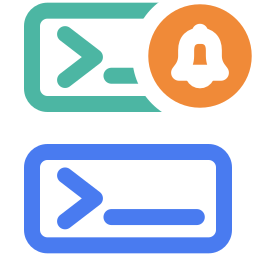
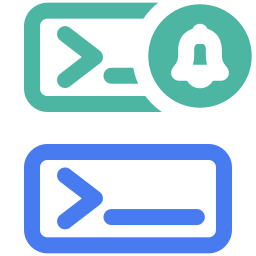
chore(release): 准备 0.5.0 发布收口
1. 统一主扩展与 notifier companion 的 0.5.0 版本号、CHANGELOG、Marketplace 文案与安装升级说明。\n2. 补齐 notifier 独立 VSIX 的打包脚本、发布手册与公开 Preview 发布复核材料。\n3. 这条分支当前建立在 notifier feature 之上，后续应在 feature 合入 main 后再 rebase 到最新 main 继续走 publish MR。

Changed region(s): [[0.5625, 0.0, 1.0, 0.4375], [0.75, 0.1562, 0.8125, 0.2812]]

diff --git a/docs/design-docs/public-marketplace-release-readiness.md b/docs/design-docs/public-marketplace-release-readiness.md
@@ -11,7 +11,7 @@ architecture_layers:
 related_specs: []
 related_plans:
   - docs/exec-plans/completed/public-marketplace-release-readiness-research.md
-updated_at: 2026-05-03
+updated_at: 2026-05-04
 ---
 
 # 公开平台发布准备
@@ -62,17 +62,19 @@ updated_at: 2026-05-03
 
 ## 6. 当前现状
 
-截至 2026-05-03（以 PR35 当前最新 head 对应的工作树快照为准），仓库里已经成立的事实如下：
+截至 2026-05-04（以 PR35 当前最新 head 对应的工作树快照为准），仓库里已经成立的事实如下：
 
 - `package.json` 具备基础扩展元数据，且仍标记为 `preview: true`。
+- 主扩展与 notifier companion 都已声明双向 `extensionDependencies`，用户从任一 Marketplace 页面安装时都会自动补齐另一侧。
 - `README.md` 已明确写成“产品已处于公开 Preview 阶段”；发布执行与对外口径已收口到 `docs/public-preview-release-playbook.md`。
+- notifier companion 的独立发布手册已收口到 `docs/notifier-preview-release-playbook.md`。
 - 许可证已选定为 `Apache-2.0`。
 - `repository`、`homepage` 和 `bugs` 已切换到公开 GitHub 地址。
 - 发布工具链已迁移到 `@vscode/vsce`，`scripts/package-vsix.mjs` 也已兼容 `.bin/vsce` 与包内 CLI 脚本两条本地入口。
 - `scripts/package-vsix.mjs` 当前会在打包阶段显式传入 `--readme-path README.marketplace.md`，确保后续 `publish --packagePath` 上传的现成 VSIX 已内嵌 Marketplace 专用 README，而不是依赖发布时重新替换。
 - `scripts/package-vsix.mjs` 默认会把 Marketplace README 的相对资源改写到当前 `HEAD` 对应的最终 git ref；若在不含 `.git` 元数据的 clean checkout 或导出目录中打包，则必须显式传入 `DEV_SESSION_CANVAS_VSCE_DOC_BRANCH=<final-ref>`，并在打包前校验这些相对资源能在该 ref 上解析成功。
-- 当前工作树已能稳定执行 `npm run package:vsix`，生成 `dev-session-canvas-0.4.1.vsix`（约 `2.17 MB`、`48 files`），并再次通过 `npm run test:vsix-smoke`。
-- 当前 `working tree` 快照已再次通过隔离 `clean checkout` 打包验证，可在干净目录内稳定产出 `dev-session-canvas-0.4.1.vsix`（约 `2.17 MB`、`48 files`）；packaged-payload smoke 继续通过单独执行 `npm run test:vsix-smoke` 复核。
+- 当前工作树已能稳定执行 `npm run package:vsix`，生成 `dev-session-canvas-0.5.0.vsix`（约 `2.12 MB`、`49 files`），并再次通过 `npm run test:vsix-smoke`。
+- 当前 `working tree` 快照已再次通过隔离 `clean checkout` 打包验证，可在干净目录内稳定产出 `dev-session-canvas-0.5.0.vsix`（约 `2.12 MB`、`49 files`）；packaged-payload smoke 继续通过单独执行 `npm run test:vsix-smoke` 复核。
 - 当前候选 release 输入快照也已再次通过隔离 `clean checkout` 验证，说明这轮瘦身后的最小 Preview 工件已经固定到可追溯提交。
 - 仓库已补上 `validate:clean-checkout:vsix` 隔离验证入口，可在 `/tmp` 下准备 clean checkout 验证，不必直接扰动当前工作树。
 - 当前对外分发主路径已确定为 `Visual Studio Marketplace Preview`，而不是手动分发 `.vsix`。
@@ -91,10 +93,10 @@ updated_at: 2026-05-03
 本地证据：
 
 - 第一轮收口前，仓库内曾出现约 `293 MB` 的 VSIX，并把 `.debug/playwright/`、`.debug/vscode-smoke/` 等调试缓存一起打入包内。
-- 当前工作树在第二轮收紧 `.vscodeignore` 后，`npm run package:vsix` 已可稳定产出 `dev-session-canvas-0.4.1.vsix`（约 `2.17 MB`、`48 files`）。
+- 当前工作树在第二轮收紧 `.vscodeignore` 后，`npm run package:vsix` 已可稳定产出 `dev-session-canvas-0.5.0.vsix`（约 `2.12 MB`、`49 files`）。
 - 当前 `npm run test:vsix-smoke` 已再次通过，说明第二轮收口后的 packaged payload 仍能独立启动并跑通 trusted smoke。
 - 当前 packaged-payload smoke 还会在解包阶段显式校验 VSIX 不再携带 `.github/`，以及 `node-pty` 的 `binding.gyp`、`scripts/`、`src/`、`third_party/`、`typings/`、嵌套 `node_modules/` 与 `.pdb` 等冗余内容。
-- 基于当前 `working tree` 快照的 clean-checkout 证据已经更新到 `2.17 MB`、`48 files`；由于当前工作树与候选 release head 已一致，这轮候选发布输入也应以同一组最小工件证据为准。
+- 基于当前 `working tree` 快照的 clean-checkout 证据已经更新到 `2.12 MB`、`49 files`；由于当前工作树与候选 release head 已一致，这轮候选发布输入也应以同一组最小工件证据为准。
 - 截至 `2026-04-28`，Linux、macOS、Windows 本地 workspace 的 `Agent` / `Terminal` / `Note` 主路径已补齐当前轮功能可用性验证；Windows 下使用 `Codex` 时执行节点内历史仍有无法向上翻页的已知问题。
 
 因此，当前只需保持以下约束与 release-day 动作：
@@ -179,13 +181,13 @@ updated_at: 2026-05-03
 
 ### 9.1 方案说明
 
-- `0.4.1` 的公开 `Marketplace Preview` 正式发布输入固定为当前候选 release 输入快照（即 PR35 当前最新 head 对应、且已通过 clean-checkout 复核的工作树内容）验证通过的最小 VSIX 工件：`dev-session-canvas-0.4.1.vsix`。当前仓库内证据为 `48 files`、约 `2.17 MB`，生成入口是 `scripts/package-vsix.mjs`，隔离复核入口是 `npm run validate:clean-checkout:vsix -- --source working-tree`。
-- 首发渠道正式收敛为 `Visual Studio Marketplace`。`Open VSX` 不与 `0.4.1` 首发绑定，后续若要补发，单独走渠道决策与凭证准备。
-- 对外发布口径以 `README.md`、`README.marketplace.md`、`CHANGELOG.md`、`docs/public-preview-release-playbook.md` 与 `docs/support.md` 为唯一仓库内正式来源。`0.4.1` 对外内容聚焦一轮 UI 修复与交互优化，重点覆盖 Agent 启动入口、节点与文件活动操作体验，以及执行节点 terminal link 行为对齐，同时继续保留“`Remote SSH` 与桌面三平台主路径已验证”以及“Windows 下 `Codex` 无法向上翻页”的已知限制。
+- `0.5.0` 的公开 `Marketplace Preview` 正式发布输入固定为当前候选 release 输入快照（即 PR35 当前最新 head 对应、且已通过 clean-checkout 复核的工作树内容）验证通过的最小 VSIX 工件：`dev-session-canvas-0.5.0.vsix`。当前仓库内证据为 `49 files`、约 `2.12 MB`，生成入口是 `scripts/package-vsix.mjs`，隔离复核入口是 `npm run validate:clean-checkout:vsix -- --source working-tree`。
+- 首发渠道正式收敛为 `Visual Studio Marketplace`。`Open VSX` 不与 `0.5.0` 首发绑定，后续若要补发，单独走渠道决策与凭证准备。
+- 对外发布口径以 `README.md`、`README.marketplace.md`、`CHANGELOG.md`、`docs/public-preview-release-playbook.md`、`docs/notifier-preview-release-playbook.md` 与 `docs/support.md` 为唯一仓库内正式来源。`0.5.0` 对外内容聚焦一轮 UI 修复与交互优化、`Dev Session Canvas Notifier` companion 的公开发布与自动安装关系，同时继续保留“`Remote SSH` 与桌面三平台主路径已验证”以及“Windows 下 `Codex` 无法向上翻页”的已知限制。
 
 ### 9.2 适用范围与边界
 
-- 本方案只覆盖 `0.4.1` 公开 `Marketplace Preview` 的仓库内准备与 release-day 执行，不把“已经上架”“已经具备稳定版 SLA”或“已经同步 `Open VSX`”写成既成事实。
+- 本方案只覆盖 `0.5.0` 公开 `Marketplace Preview` 的仓库内准备与 release-day 执行，不把“已经上架”“已经具备稳定版 SLA”或“已经同步 `Open VSX`”写成既成事实。
 - 适用的发布输入必须与上述正式文档保持一致；若真正发布使用的不是当前候选 head，而是后续 merge commit、tag 或其他最终 git ref，则必须基于最终 ref 重新执行 clean-checkout 打包验证，并复核 `README.marketplace.md` 的资源改写 ref。
 - 支持矩阵继续以 `Remote SSH` 与桌面三平台主路径已验证为基础，但不把 `Restricted Mode`、`Virtual Workspace`、CLI 依赖边界或更强 runtime guarantee 误写成全量稳定支持。
 
@@ -193,6 +195,7 @@ updated_at: 2026-05-03
 
 - `scripts/package-vsix.mjs` 必须继续显式传入 `--readme-path README.marketplace.md`，且 README 资源改写 ref 必须与最终发布 ref 一致；不允许依赖发布时临时替换文案来修正文档内容。
 - `npm run validate:clean-checkout:vsix` 与 `npm run test:vsix-smoke` 是发布前必须保留的最小证据链；只要工件大小、文件数或 packaged payload 内容发生变化，就必须同步刷新本设计文档与相关发布文档中的证据。
+- 主扩展与 notifier companion 的双向 `extensionDependencies` 必须继续保持对称，且两侧都保持 `"api": "none"`；这样才能在跨 host 场景里继续用 commands 完成依赖通信，并让任一安装入口都自动补齐另一侧。
 - `.debug/`、`.playwright-browsers/`、`.github/`、`node-pty` 的源码/脚本/PDB/重复依赖等冗余内容必须继续留在 VSIX 之外，避免包体回涨或引入不可追溯内容；相关内容守卫继续由 `scripts/run-vscode-vsix-smoke.mjs` 负责。
 - 发布账号、PAT、Marketplace listing 草案、release notes 口径与支持入口只要发生变化，都必须回写到仓库正式文档，而不是只停留在外部聊天或 MR 评论。
 
@@ -201,7 +204,7 @@ updated_at: 2026-05-03
 本研究依赖以下证据来源：
 
 - 仓库内 `package.json`、`README.md`、`CHANGELOG.md`、`docs/public-preview-release-playbook.md`、`docs/support.md`、`LICENSE` 与打包脚本现状。
-- 本地执行 `npm run package:vsix`、`npm run validate:clean-checkout:vsix -- --source working-tree --skip-vsix-smoke` 与 `npm run test:vsix-smoke` 的实际结果，确认当前工作树（也即当前候选 release 输入快照）已能稳定产出 `dev-session-canvas-0.4.1.vsix`（约 `2.17 MB` / `48 files`），且收口后的 packaged payload 仍可启动。
+- 本地执行 `npm run package:vsix`、`npm run validate:clean-checkout:vsix -- --source working-tree --skip-vsix-smoke` 与 `npm run test:vsix-smoke` 的实际结果，确认当前工作树（也即当前候选 release 输入快照）已能稳定产出 `dev-session-canvas-0.5.0.vsix`（约 `2.12 MB` / `49 files`），且收口后的 packaged payload 仍可启动。
 - `Visual Studio Code` 官方发布文档：<https://code.visualstudio.com/api/working-with-extensions/publishing-extension>
 - `Open VSX` 发布文档：<https://github.com/eclipse/openvsx/wiki/Publishing-Extensions>
 

diff --git a/docs/public-preview-release-playbook.md b/docs/public-preview-release-playbook.md
@@ -1,6 +1,6 @@
 # 公开 Preview 发布执行手册
 
-本文用于收口当前公开 `Marketplace Preview` 版本的发布素材、手工发布步骤、安装/升级说明与回退口径；当前目标版本为 `0.4.1`。当前版本范围已经收口到“相对 `0.4.0` 的一轮 UI 修复与交互优化：Agent 启动入口、节点与文件活动操作体验、执行节点 terminal link 行为，以及 `0.4.1` 发布材料更新”。它不是对外宣传页，而是发布当天的执行与复核手册。
+本文用于收口当前公开 `Marketplace Preview` 版本的发布素材、手工发布步骤、安装/升级说明与回退口径；当前目标版本为 `0.5.0`。当前版本范围已经收口到“相对 `0.4.0` 的一轮 UI 修复与交互优化、执行节点 terminal link 行为对齐，以及 `Dev Session Canvas Notifier` companion 的发布与自动安装关系收口”。它不是对外宣传页，而是发布当天的执行与复核手册。
 
 ## 当前发布素材
 
@@ -29,13 +29,13 @@
 
 ## release notes 定稿口径
 
-当前 `0.4.1` 的 release notes 统一以 `CHANGELOG.md` 为准；发布前只允许做事实性修订，不应再引入与版本范围无关的新能力描述。
+当前 `0.5.0` 的 release notes 统一以 `CHANGELOG.md` 为准；发布前只允许做事实性修订，不应再引入与版本范围无关的新能力描述。
 
 发布前应确认以下内容在 `CHANGELOG.md` 中保持一致：
 
-- 顶部版本标题与 `CHANGELOG.md` 保持一致；当前标题为 `0.4.1 - Preview UI Polish Update`
+- 顶部版本标题与 `CHANGELOG.md` 保持一致；当前标题为 `0.5.0 - Preview Notifier Companion Update`
 - 当前已包含实际版本差异、安装/升级说明与回退建议
-- release notes 应覆盖以下当前已确认范围：Agent 创建预设与 provider 默认参数归一化、创建菜单与最近启动命令展示、手动创建节点后的平滑居中、文件活动默认关闭与树形交互 / 自动边锚点优化、执行节点 terminal link 行为对齐，以及 Windows 下使用 `Codex` 时无法向上翻页的已知问题
+- release notes 应覆盖以下当前已确认范围：Agent 创建预设与 provider 默认参数归一化、创建菜单与最近启动命令展示、手动创建节点后的平滑居中、文件活动默认关闭与树形交互 / 自动边锚点优化、执行节点 terminal link 行为对齐、`Dev Session Canvas Notifier` companion 的公开发布与自动安装关系，以及 Windows 下使用 `Codex` 时无法向上翻页的已知问题
 - 安装/升级与回退口径需要继续与 `README.marketplace.md` 保持一致
 - 不把 `Preview` 误写成稳定正式版承诺
 
@@ -43,31 +43,32 @@
 
 当前对外统一使用以下安装与升级说明：
 
-1. 当前目标版本为 `0.4.1`，扩展身份保持 `devsessioncanvas.dev-session-canvas`；`0.1.0` 仍是首个公开 `Preview` 基线版本。
-2. 首次安装与从 `0.4.0` 升级到 `0.4.1` 将通过 `Visual Studio Marketplace` 常规安装 / 升级完成；后续 `0.4.x` 更新也通过 Marketplace 常规升级获取。
-3. 当前仍为 `Preview`，不承诺跨版本 workspace 状态完全兼容；若涉及关键工作区，建议升级前先自行备份或先在非关键环境验证。
+1. 当前目标版本为 `0.5.0`，扩展身份保持 `devsessioncanvas.dev-session-canvas`；`0.1.0` 仍是首个公开 `Preview` 基线版本。
+2. 首次安装与从 `0.4.0` 升级到 `0.5.0` 将通过 `Visual Studio Marketplace` 常规安装 / 升级完成；后续 `0.5.x` 更新也通过 Marketplace 常规升级获取。
+3. 当前主扩展通过 `extensionDependencies` 自动带上 `Dev Session Canvas Notifier`；如果用户从 notifier 页面单独安装，也会自动补齐主扩展。
+4. 当前仍为 `Preview`，不承诺跨版本 workspace 状态完全兼容；若涉及关键工作区，建议升级前先自行备份或先在非关键环境验证。
 
 ## 回退口径
 
 ### 用户侧回滚
 
-若 `0.4.1` 对当前工作流形成 blocker，当前统一建议是：
+若 `0.5.0` 对当前工作流形成 blocker，当前统一建议是：
 
 1. 先禁用或卸载当前扩展，避免继续影响当前 workspace。
-2. 关注后续 `0.4.x` hotfix；当前默认优先通过修复版升级解决，而不是承诺平滑降级兼容。
+2. 关注后续 `0.5.x` hotfix；当前默认优先通过修复版升级解决，而不是承诺平滑降级兼容。
 3. 若确需回退，以重新安装目标版本并重新验证工作区状态为准；当前不承诺 `Preview` 版本之间的回退兼容。
 
 ### 维护者侧回滚
 
 若发布后发现 P0 / P1 blocker，默认按以下顺序处理：
 
-1. 优先评估能否在短时间内发布后续 `0.4.x` hotfix。
+1. 优先评估能否在短时间内发布后续 `0.5.x` hotfix。
 2. 若短时间内无法修复，且当前版本会阻塞主路径使用或引发宿主崩溃，再考虑临时下架当前版本。
 3. 无论选择 hotfix 还是临时下架，都需要同步更新 GitHub issue、`docs/support.md` 与对外说明，避免用户只看到失真状态。
 
 ## 截图策略
 
-当前 `0.4.1` 发布不以额外截图为 blocker。当前已经具备：
+当前 `0.5.0` 发布不以额外截图为 blocker。当前已经具备：
 
 - `package.json` 中的 `icon`
 - `galleryBanner`
@@ -114,9 +115,9 @@
 注意：`publish --packagePath` 只会上传现成 VSIX，不会重新处理 `README` 或 `CHANGELOG`。因此发布前必须先重新执行 `npm run package:vsix`，并确保该 VSIX 已由打包阶段写入 `README.marketplace.md`，且 README 相对媒体 URL 已按最终 git ref 校验通过。
 
     node node_modules/@vscode/vsce/vsce publish \
-      --packagePath dev-session-canvas-0.4.1.vsix
+      --packagePath dev-session-canvas-0.5.0.vsix
 
-若最终版本号不是 `0.4.1`，应先同步更新命令中的 VSIX 文件名。
+若最终版本号不是 `0.5.0`，应先同步更新命令中的 VSIX 文件名。
 
 ## publish 后补 tag
 
@@ -124,15 +125,15 @@
 
 若当前 shell 所在的就是本次发布对应 commit，可直接执行：
 
-    git tag v0.4.1
-    git push origin v0.4.1
+    git tag v0.5.0
+    git push origin v0.5.0
 
 若当前 shell 不在最终发布 commit 上，则应显式指定本次发布的最终 git ref 或 commit SHA：
 
-    git tag v0.4.1 <final-ref-or-sha>
-    git push origin v0.4.1
+    git tag v0.5.0 <final-ref-or-sha>
+    git push origin v0.5.0
 
-若最终版本号不是 `0.4.1`，应同步替换命令中的 tag 名称。当前约定是使用 lightweight tag，不额外创建 annotated tag；发布后验证也以远端 tag 已成功存在为准。
+若最终版本号不是 `0.5.0`，应同步替换命令中的 tag 名称。当前约定是使用 lightweight tag，不额外创建 annotated tag；发布后验证也以远端 tag 已成功存在为准。
 
 ## 发布后验证
 

diff --git a/CHANGELOG.md b/CHANGELOG.md
@@ -1,15 +1,16 @@
 # Changelog
 
-## 0.4.1 - Preview UI Polish Update
+## 0.5.0 - Preview Notifier Companion Update
 
-相对 `0.4.0`，`0.4.1` 主要进行了一系列 UI 修复和交互优化，集中在 Agent 启动入口、节点与文件活动操作体验，以及执行节点里的 terminal link 行为对齐。当前仍保持 `Preview` 口径；Windows 下使用 `Codex` 时执行节点内历史暂时无法向上翻页，仍是本版本显式保留的已知限制。
+相对 `0.4.0`，`0.5.0` 在继续收口一轮 UI 修复和交互优化的同时，把 `Dev Session Canvas Notifier` companion 的公开发布、自动安装关系与桌面通知启用口径一并纳入正式版本范围。当前仍保持 `Preview` 口径；Windows 下使用 `Codex` 时执行节点内历史暂时无法向上翻页，仍是本版本显式保留的已知限制。
 
 ### 本版本聚焦
 
 - 修复 Agent 启动预设与会话展示细节：统一 `默认 / Resume / YOLO / 沙盒` 与 provider 默认参数之间的冲突归一化，避免预设文案、metadata 持久化与真实启动命令彼此打架；同时把创建菜单与最近一次实际启动命令展示收紧到更可解释的状态
 - 优化节点创建与文件活动交互：手动创建的新节点现在会平滑带到用户视野中心；文件活动功能默认保持关闭，显式启用后则提供更稳定的文件列表树形交互、自动文件边锚点与相关 smoke 覆盖
 - 优化执行节点 terminal link 交互：补齐 multiline 路径 / 行号解析、目录 / word / search link 行为，以及 low-confidence link 的 hover / 下划线语义，使交互尽量向 VS Code 原生 Terminal 对齐
-- 收口 `0.4.1` 发布材料：同步更新 Marketplace 文案、release notes、安装升级说明与发布手册，确保当前版本范围、升级路径和回退口径一致
+- 新增 `Dev Session Canvas Notifier` companion 的 Marketplace 发布收口，并通过双向 `extensionDependencies` 建立自动安装关系：安装主扩展会自动带上 notifier，单独安装 notifier 也会自动补齐主扩展
+- 收口 `0.5.0` 发布材料：同步更新 Marketplace 文案、release notes、安装升级说明与发布手册，确保当前版本范围、升级路径和回退口径一致
 
 ### 推荐体验路径
 
@@ -29,14 +30,15 @@
 ### 安装与升级
 
 - 当前公开 `Preview` 更新，扩展 ID 为 `devsessioncanvas.dev-session-canvas`
-- 首次安装与从 `0.4.0` 升级到 `0.4.1` 都通过 `Visual Studio Marketplace` 获取；后续 `0.4.x` 更新同样通过 Marketplace 升级获取
-- 若此前从 `0.1.2` 升级到 `0.2.0` 后沿用了旧的 view layout 缓存，侧栏里的 `概览` 与 `常用操作` 可能已经被拆成两个独立图标；这不表示重复安装了两个扩展，升级到 `0.4.1` 后仍可手动把两个 view 移回同一 `Dev Session Canvas` 容器，或执行 `View: Reset View Locations` 恢复默认布局
+- 首次安装与从 `0.4.0` 升级到 `0.5.0` 都通过 `Visual Studio Marketplace` 获取；后续 `0.5.x` 更新同样通过 Marketplace 升级获取
+- 安装主扩展时会自动带上 `Dev Session Canvas Notifier`；如果用户从 notifier 页面单独安装，也会自动补齐主扩展
+- 若此前从 `0.1.2` 升级到 `0.2.0` 后沿用了旧的 view layout 缓存，侧栏里的 `概览` 与 `常用操作` 可能已经被拆成两个独立图标；这不表示重复安装了两个扩展，升级到 `0.5.0` 后仍可手动把两个 view 移回同一 `Dev Session Canvas` 容器，或执行 `View: Reset View Locations` 恢复默认布局
 - Preview 阶段不承诺跨版本 workspace 状态完全兼容；如工作区包含重要画布状态，建议升级前备份或在非关键环境验证
 
 ### 回退建议
 
-- 若 `0.4.1` 阻塞当前工作流，建议先禁用或卸载扩展
-- 优先等待后续 `0.4.x` 修复版本，而非尝试手动降级
+- 若 `0.5.0` 阻塞当前工作流，建议先禁用或卸载扩展
+- 优先等待后续 `0.5.x` 修复版本，而非尝试手动降级
 - 如需回退，请重新安装目标版本并验证工作区状态；Preview 版本之间不保证回退兼容
 
 ## 0.4.0 - Preview Sidebar Session Update

diff --git a/docs/design-docs/extension-icon-candidates.md b/docs/design-docs/extension-icon-candidates.md
@@ -63,16 +63,18 @@ updated_at: 2026-05-04
 资源：
 
 - `extensions/vscode/dev-session-canvas-notifier/images/activitybar.svg`
+- `extensions/vscode/dev-session-canvas-notifier/images/icon.svg`
 - `extensions/vscode/dev-session-canvas-notifier/images/icon.png`
 
 - notifier companion 的 Marketplace icon 继续沿用“从 activity bar icon 出发，再放大并上色导出 PNG”的策略，不单独发明新的轮廓语言。
-- 颜色策略沿用主扩展的上下双终端分色：上层 terminal 使用 `#4CB6A3`，下层 terminal 使用 `#497BF0`；右上角通知徽标使用暖色强调，表示 notifier 的提醒语义。
-- `extensions/vscode/dev-session-canvas-notifier/images/icon.png` 由 package-local 的 `activitybar.svg` 作为渲染输入导出，作为 notifier 后续接入 Marketplace icon 时的正式 PNG 资产。
+- 颜色策略沿用主扩展的上下双终端分色：上层 terminal 使用 `#4CB6A3`，下层 terminal 使用 `#497BF0`；右上角通知徽标也对齐为上层 terminal 的绿色，保持更统一的视觉语言。
+- `extensions/vscode/dev-session-canvas-notifier/images/icon.svg` 是放大并上色后的独立矢量源，用于收口 notifier 的 Marketplace icon 造型。
+- `extensions/vscode/dev-session-canvas-notifier/images/icon.png` 由 `extensions/vscode/dev-session-canvas-notifier/images/icon.svg` 渲染导出，作为 notifier 后续接入 Marketplace icon 时的正式 PNG 资产。
 
 ## 6. 风险与取舍
 
 - 主 icon 的最终 PNG 依赖渲染链生成；如果后续 SVG 继续微调，应重新导出 `images/icon.png`。
-- notifier companion 的最终 PNG 同样依赖渲染链；如果后续调整 `extensions/vscode/dev-session-canvas-notifier/images/activitybar.svg`，应同步重新导出 `extensions/vscode/dev-session-canvas-notifier/images/icon.png`。
+- notifier companion 的最终 PNG 同样依赖渲染链；如果后续调整 `extensions/vscode/dev-session-canvas-notifier/images/icon.svg`，应同步重新导出 `extensions/vscode/dev-session-canvas-notifier/images/icon.png`。
 - 当前已经完成文件级同步与渲染验证，但还没有补充 Marketplace 或 VS Code 实景截图类人工校验。
 
 ## 7. 当前结论
@@ -82,7 +84,8 @@ updated_at: 2026-05-04
 - `images/dev-session-canvas-icon.svg` 是主扩展 icon 的唯一源文件。
 - `images/dev-session-canvas-activitybar.svg` 是 activity bar icon 的唯一源文件。
 - `images/icon.png` 是由最终主 icon 渲染出的正式打包 PNG。
-- `extensions/vscode/dev-session-canvas-notifier/images/activitybar.svg` 是 notifier companion 当前用于导出 Marketplace PNG 的渲染输入。
+- `extensions/vscode/dev-session-canvas-notifier/images/activitybar.svg` 是 notifier companion activity bar icon 的唯一源文件。
+- `extensions/vscode/dev-session-canvas-notifier/images/icon.svg` 是 notifier companion Marketplace icon 的唯一矢量源文件。
 - `extensions/vscode/dev-session-canvas-notifier/images/icon.png` 是 notifier companion 的正式 PNG icon 资产。
 - 其他历史 icon 草稿应从仓库中移除。
 
@@ -90,6 +93,7 @@ updated_at: 2026-05-04
 
 - 已验证 `images/dev-session-canvas-icon.svg` 与 `images/dev-session-canvas-activitybar.svg` 的 SVG XML 语法有效。
 - 已使用本地渲染链将 `images/dev-session-canvas-icon.svg` 渲染为正式 `images/icon.png`。
-- 已使用本地 `rsvg-convert` 基于 `extensions/vscode/dev-session-canvas-notifier/images/activitybar.svg` 的放大上色策略生成 `extensions/vscode/dev-session-canvas-notifier/images/icon.png`（`256x256` PNG）。
+- 已新增 `extensions/vscode/dev-session-canvas-notifier/images/icon.svg`，将 notifier 的放大上色版正式收口为独立矢量源。
+- 已使用本地 `rsvg-convert` 基于 `extensions/vscode/dev-session-canvas-notifier/images/icon.svg` 生成 `extensions/vscode/dev-session-canvas-notifier/images/icon.png`（`256x256` PNG）。
 - 已确认 `package.json` 继续引用 `images/icon.png` 与 `images/dev-session-canvas-activitybar.svg`，无需改动接入路径。
 - 后续如需进一步保险，可补一轮 VS Code 扩展列表与 Marketplace 的人工视觉复核。

diff --git a/docs/design-docs/index.md b/docs/design-docs/index.md
@@ -36,7 +36,7 @@
 | `docs/design-docs/agent-cli-launch-context-and-resume.md` | Agent 节点启动时的 repo 上下文、provider 配置继承边界与显式 session resume 规则 | VSCode 集成域、协作对象域、执行编排域、项目状态域 / 宿主集成层、共享模型与编排层、适配与基础设施层 | 已选定 | 未验证 | `docs/product-specs/canvas-core-collaboration-mvp.md`、`docs/product-specs/runtime-persistence-modes.md`、`docs/exec-plans/completed/agent-cli-launch-context-and-resume.md` | 2026-04-14 |
 | `docs/design-docs/agent-node-creation-provider-selection.md` | 新增 Agent 节点时，如何在保留默认快速路径的同时提供创建前 provider 选择 | VSCode 集成域、画布交互域、协作对象域 / 宿主集成层、画布呈现层、共享模型与编排层 | 已选定 | 已验证 | `docs/product-specs/canvas-core-collaboration-mvp.md`、`docs/product-specs/canvas-navigation-and-workbench-polish.md`、`docs/product-specs/agent-launch-modes-and-restart.md`、`docs/exec-plans/completed/agent-node-creation-provider-selection-implementation.md` | 2026-04-24 |
 | `docs/design-docs/execution-node-zoom-interaction-surface.md` | 执行节点在继续跟随 React Flow 缩放的前提下，如何修复 `xterm.js` 的鼠标命中、拖选和右键坐标偏移 | 画布交互域、协作对象域、执行编排域 / 画布呈现层、共享模型与编排层 | 已选定 | 已验证 | `docs/exec-plans/completed/execution-node-zoom-coordinate-alignment.md`、`docs/exec-plans/completed/execution-node-zoom-interaction-research.md` | 2026-04-12 |
-| `docs/design-docs/public-marketplace-release-readiness.md` | 公开 `Marketplace Preview` 的渠道选择、剩余 release-day 动作与发布边界判断 | VSCode 集成域、项目状态域 / 宿主集成层、适配与基础设施层 | 已选定 | 验证中 | `docs/exec-plans/completed/public-marketplace-release-readiness-research.md` | 2026-05-03 |
+| `docs/design-docs/public-marketplace-release-readiness.md` | 公开 `Marketplace Preview` 的渠道选择、剩余 release-day 动作与发布边界判断 | VSCode 集成域、项目状态域 / 宿主集成层、适配与基础设施层 | 已选定 | 验证中 | `docs/exec-plans/completed/public-marketplace-release-readiness-research.md` | 2026-05-04 |
 | `docs/design-docs/development-debug-automation.md` | 隔离开发宿主、真实扩展 smoke test 与 Webview Playwright UI 回归的三层调试自动化方案 | VSCode 集成域、画布交互域、项目状态域 / 宿主集成层、画布呈现层、共享模型与编排层 | 已选定 | 已验证 | `docs/exec-plans/completed/extension-debug-automation.md`、`docs/exec-plans/completed/remote-ssh-runtime-persistence-automation.md` | 2026-04-10 |
 | `docs/design-docs/dev-session-canvas-namespace-migration.md` | 正式产品名落定后，将命令、配置、持久化键与扩展身份统一到 `DevSessionCanvas`，并明确内部 VSIX 断点迁移口径的方案 | VSCode 集成域、项目状态域 / 宿主集成层、共享模型与编排层 | 已选定 | 已验证 | `docs/product-specs/canvas-core-collaboration-mvp.md`、`docs/exec-plans/completed/dev-session-canvas-extension-identity-cutover.md`、`docs/exec-plans/completed/dev-session-canvas-namespace-migration.md` | 2026-04-06 |
 | `docs/design-docs/execution-lifecycle-and-recovery.md` | 执行节点的差异化生命周期、创建即打开规则，以及 Agent 自动恢复入口的正式边界 | VSCode 集成域、协作对象域、执行编排域、项目状态域 / 宿主集成层、画布呈现层、共享模型与编排层、适配与基础设施层 | 已选定 | 验证中 | `docs/product-specs/canvas-core-collaboration-mvp.md`、`docs/product-specs/runtime-persistence-modes.md`、`docs/exec-plans/completed/agent-cli-launch-context-and-resume.md`、`docs/exec-plans/completed/agent-running-state-detection.md`、`docs/exec-plans/completed/execution-lifecycle-recovery-and-autostart.md` | 2026-04-14 |

diff --git a/docs/notifier-preview-release-playbook.md b/docs/notifier-preview-release-playbook.md
@@ -1,8 +1,8 @@
 # Notifier 公开 Preview 发布执行手册
 
-本文用于收口 `Dev Session Canvas Notifier` 的 Marketplace 发布素材、手工发布步骤、安装启用口径与发布后复核动作。本文不预设固定目标版本；每次发布前都应从 manifest 读取当前版本事实。publisher 沿用 `devsessioncanvas`，扩展 ID 为 `devsessioncanvas.dev-session-canvas-notifier`。
+本文用于收口 `Dev Session Canvas Notifier` 的 Marketplace 发布素材、手工发布步骤、安装启用口径与发布后复核动作。当前目标版本为 `0.5.0`，publisher 沿用 `devsessioncanvas`，扩展 ID 为 `devsessioncanvas.dev-session-canvas-notifier`。
 
-当前约定是：notifier 的版本号继续与主扩展 `Dev Session Canvas` 对齐。也就是说，只要 notifier 仍以 companion 身份随主扩展同轮迭代发布，就继续使用同一个 `0.x.y` 版本号；如果未来 notifier 需要在主扩展不发版的情况下单独迭代，则必须先重新确认是否继续沿用“版本对齐”策略，避免同一版本号对应两组不同的发布事实。截止 2026-05-05，仓库里的 manifest 版本当前仍是主扩展 `0.4.1`、notifier `0.4.0`；任何未来目标版本都必须先在 manifest / changelog / 产物名里同步落地，不能直接把计划中的版本号写成既成事实。
+当前约定是：notifier 的版本号继续与主扩展 `Dev Session Canvas` 对齐。也就是说，只要 notifier 仍以 companion 身份随主扩展同轮迭代发布，就继续使用同一个 `0.x.y` 版本号；如果未来 notifier 需要在主扩展不发版的情况下单独迭代，则必须先重新确认是否继续沿用“版本对齐”策略，避免同一版本号对应两组不同的发布事实。当前这轮 `0.5.0` 发布准备已经把两侧 manifest / changelog / 产物名同步到同一版本号；后续若再改目标版本，必须一起改回正式文档与验证记录。
 
 ## 当前发布素材
 
@@ -87,7 +87,6 @@
 
 ## 当前验证备注
 
-- 截至 `2026-05-05`，当前分支 latest head 已重新通过 `npm run test:notifier-smoke`，说明“主扩展 -> companion -> 回放 callback -> 清除 attention”这条 repo-local 功能链路已恢复。
 - notifier 子包现在已经显式提供 `npm run -w extensions/vscode/dev-session-canvas-notifier package:vsix`，可直接从仓库根目录执行；真正产物文件名以当前 notifier manifest 版本为准，而不是手册里预设的常量。
 - notifier 的打包脚本现已固定打印 `VSCE README doc ref`；即使当前 `README.marketplace.md` 没有相对链接，也会显式输出“当前没有需要重写的相对链接”，便于 release-day 复核“最终发布 ref 已参与打包校验”。
 - 当前本地仍可作为有效证据保留的验证包括：`npm run package:vsix`、`npm run -w extensions/vscode/dev-session-canvas-notifier package:vsix`、`npm run test:notifier-source`、`npm run test:notifier-smoke`，以及真实桌面通知的人工验收。

diff --git a/README.md b/README.md
@@ -44,7 +44,7 @@ DevSessionCanvas 是一个面向 VS Code 的多会话协作画布扩展。它通
 
 ## 项目状态
 
-项目已完成首轮研究、设计与 MVP 验证，处于公开 `Preview` 阶段。当前工作重点是在继续推进一轮 UI 修复与交互优化的同时，把 notifier companion 的正式安装路径与桌面通知桥接能力收口到主线实现，并继续按 Marketplace `Preview` 口径迭代。对外版本口径维持 `Preview`，不提供稳定正式版承诺。
+项目已完成首轮研究、设计与 MVP 验证，处于公开 `Preview` 阶段。当前工作重点是围绕 `0.5.0` 做一轮 UI 修复、交互优化与 notifier companion 发布收口，集中在 Agent 启动入口、节点与文件活动操作体验、执行节点 terminal link 行为对齐，以及桌面通知 companion 的正式安装路径，并继续按 Marketplace `Preview` 口径迭代。对外版本口径维持 `Preview`，不提供稳定正式版承诺。
 
 明确结论：
 
@@ -76,7 +76,7 @@ DevSessionCanvas 是一个面向 VS Code 的多会话协作画布扩展。它通
 - 在主扩展设置中将 `devSessionCanvas.notifications.attentionSignalBridge` 设为 `system`
 - `system` 模式下会优先调用本机 UI 侧 notifier companion；若 companion 缺失、当前平台不支持或投递失败，则自动回退到工作台消息
 - 该 companion 尤其适合 `Remote SSH`、WSL、Dev Container 等“主扩展运行在远端，而提醒需要回到本机桌面”的场景
-- notifier 的架构与能力边界见 [`docs/design-docs/notifier-companion-architecture.md`](docs/design-docs/notifier-companion-architecture.md)
+- notifier 自己的发布与复核口径见 [`docs/notifier-preview-release-playbook.md`](docs/notifier-preview-release-playbook.md)
 
 ## 源码编译与开发安装
 

diff --git a/extensions/vscode/dev-session-canvas-notifier/README.md b/extensions/vscode/dev-session-canvas-notifier/README.md
@@ -4,6 +4,10 @@
 
 当前目录只承载 companion extension 本身的构建与局部实现；正式产品、架构与设计结论仍以仓库根目录的 `README.md`、`ARCHITECTURE.md` 与 `docs/` 为准。
 
+如果当前在准备对外发布或复核 Marketplace 输入，统一以仓库根目录的 [`docs/notifier-preview-release-playbook.md`](../../../docs/notifier-preview-release-playbook.md) 为准；本目录下的 `README.marketplace.md` 只负责最终商店页文案。
+
+当前公开安装关系已收口为双向自动补齐：安装主扩展 `Dev Session Canvas` 时，VS Code 会自动安装本扩展；如果从本扩展页面单独安装，VS Code 也会自动补齐主扩展。
+
 本地手动 F5 调试时，优先使用仓库里的 `Run Dev Session Canvas + Notifier (Local Window)`。这条配置固定使用专用 profile `Dev Session Canvas Notifier Extension Debug`，目的是把 notifier 的开发态调试环境与日常使用环境隔离开，减少已安装插件和已安装发布版扩展带来的冲突。
 
 如果只想单独调主扩展，而不把真实 notifier 一起跑起来，则使用 `Run Dev Session Canvas (Main Only)`。这条配置不会加载 notifier，也不会要求本机 notifier 路径；它会在启动前生成一份 debug-only 的临时主扩展目录，并去掉开发态的 notifier 依赖，因此主扩展仍可在本地或远端窗口中独立调试。

diff --git a/extensions/vscode/dev-session-canvas-notifier/CHANGELOG.md b/extensions/vscode/dev-session-canvas-notifier/CHANGELOG.md
@@ -1,9 +1,10 @@
 # Changelog
 
-## Unreleased
+## 0.5.0
 
 - 初始化 UI-side notifier companion 骨架。
 - 新增测试桌面通知命令与诊断输出，用于真实桌面通知的人工验收。
 - 为各平台返回结构化 `activationMode`，显式区分“可点击回到 VS Code”和“仅展示通知”的退化路径。
 - 新增 `devSessionCanvasNotifier.notifications.playSound` 配置开关，默认请求提示音并允许按本机 UI 环境关闭。
 - 新增 notifier sidebar，用于展示当前本机 UI 环境下的通知方式、点击回跳能力、预安装依赖与最近一次投递结果。
+- 与主扩展建立双向 `extensionDependencies` 自动安装关系：安装主扩展会自动带上 notifier，单独安装 notifier 也会自动补齐主扩展。
